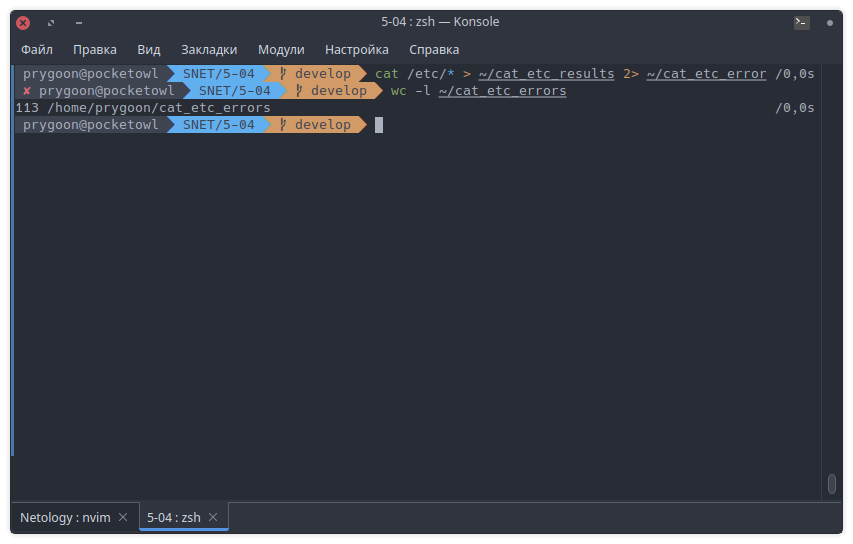
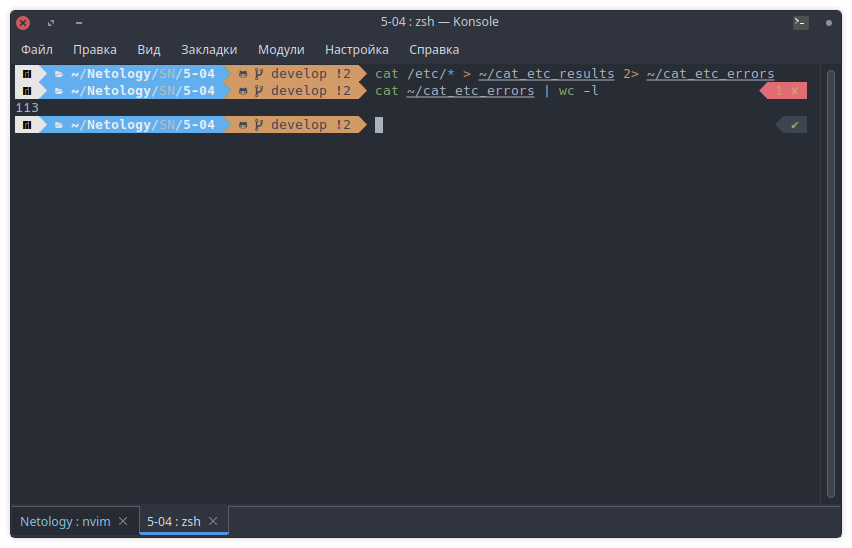
5-04 task 1-3 done

Changed region(s): [[0.0, 0.0312, 0.9765, 0.8125], [0.0305, 0.9375, 0.1221, 0.9688], [0.1831, 0.9375, 0.2441, 0.9688]]

diff --git a/SNET/5-04/5-04.md b/SNET/5-04/5-04.md
@@ -3,7 +3,7 @@
 ## Задание 1
 
 - Найдите все файлы с расширением `.conf` в /etc сначала с помощью команды `find`,
-а потом с помощью команды `locate`;
+  а потом с помощью команды `locate`;
 
 - Перенаправьте результаты работы каждой команды в разные файлы;
 
@@ -22,36 +22,51 @@ cat find_results | wc -l
 ```
 
 ```bash
-cat locate_results | wc -l 
+cat locate_results | wc -l
 ```
 
 ![alt_text](images/task_1.png "Результат")
 
-------
+---
 
 ## Задание 2
 
 - Выведите с помощью `cat` содержимое всех файлов в директории /etc `cat /etc/*`;
 - Направьте ошибки в отдельный файл в вашей домашней директории;
 - Стандартный поток вывода направьте в другой файл;
+
+```bash
+cat /etc/* > ~/cat_etc_results 2> ~/cat_etc_errors
+```
+
 - Подсчитайте, сколько объектов не удалось прочитать.
+
+```bash
+cat ~/cat_etc_errors | wc -l
+```
 
 ![alt_text](images/task_2.png "Результат")
 
-------
+---
 
 ## Задание 3
 
 - Перенаправьте результат работы команды `ls -l` в каталоге с большим
-количеством файлов в утилиту `cut`, чтобы отобразить только права доступа к файлам;
+  количеством файлов в утилиту `cut`, чтобы отобразить только права доступа к файлам;
 - Отправьте в конвейере этот вывод на `sort` и `uniq`, чтобы отфильтровать все
-повторяющиеся строки;
+  повторяющиеся строки;
 - Уберите из подсчета строку `total`;
 - С помощью `wc` подсчитайте различные типы разрешений в этом каталоге.
 
-------
+```bash
+ls -l | awk '$1 != "итого"' |  cut -f 1 -d " " | sort | uniq | wc -l
+```
 
-## Дополнительные задания (со звездочкой*)
+![alt_text](images/task_3.png "Результат")
+
+---
+
+## Дополнительные задания (со звездочкой\*)
 
 Эти задания дополнительные (не обязательные к выполнению) и никак не повлияют
 на получение вами зачета по этому домашнему заданию. Вы можете их выполнить,

diff --git a/SNET/README.md b/SNET/README.md
@@ -10,5 +10,4 @@
 
 4. [Работа с текстовыми утилитами](5-04/5-04.md)
 
-5. [Разбор скриптов и и их написание](5-04/5-05.md)
-
+5. [Разбор скриптов и и их написание](5-05/5-05.md)
